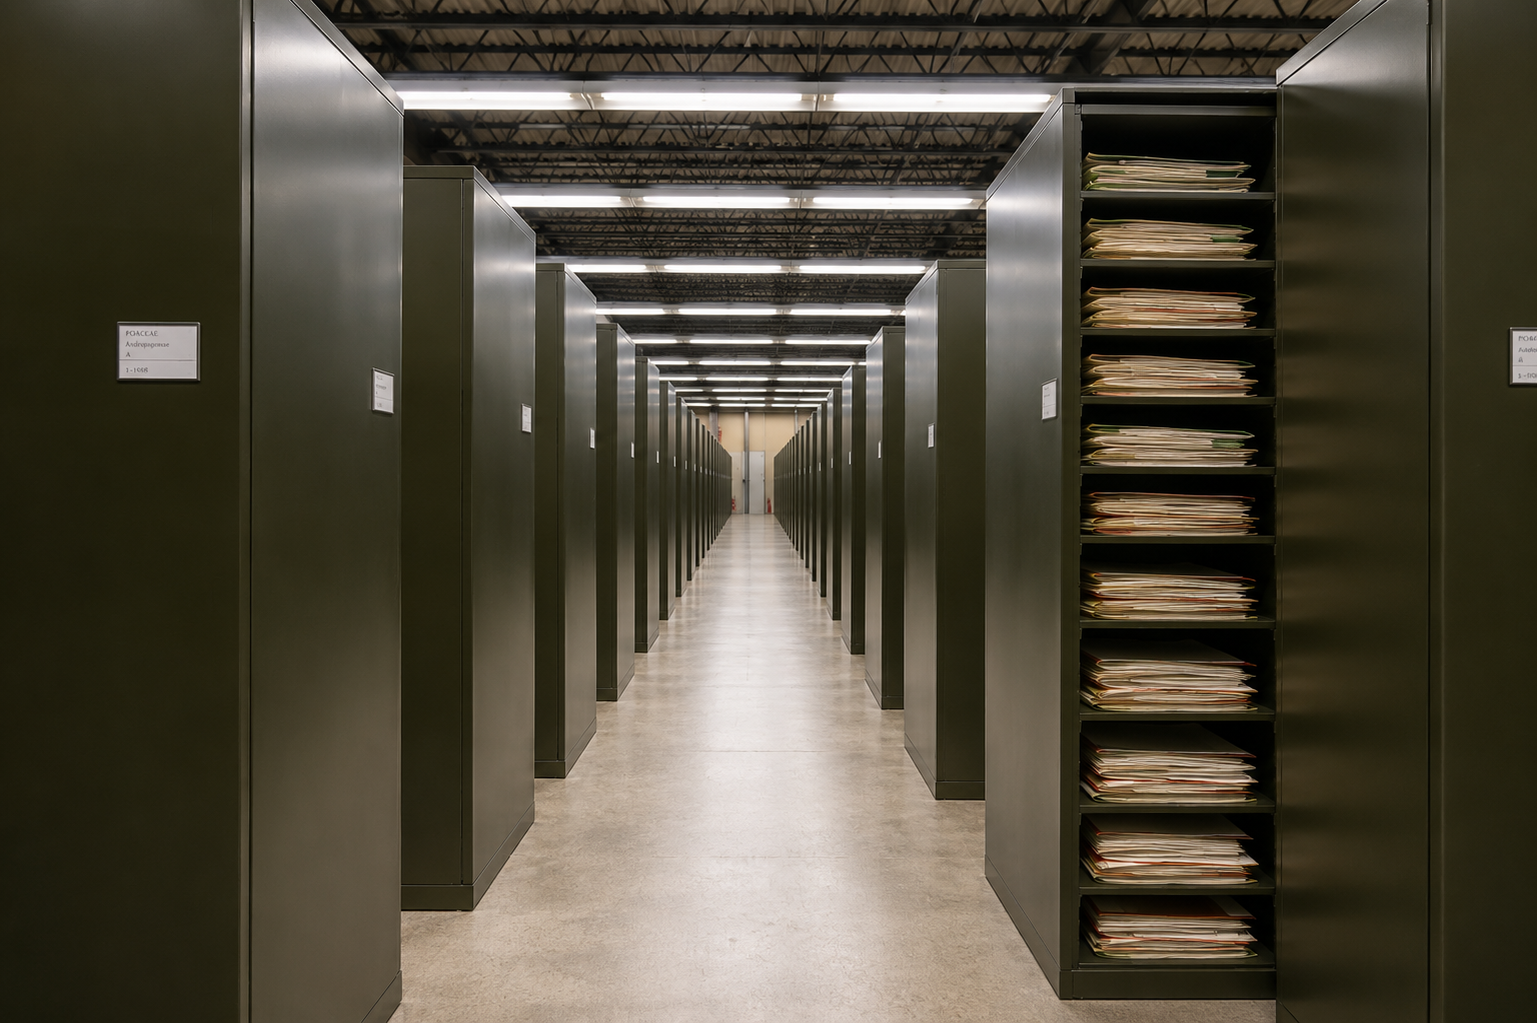
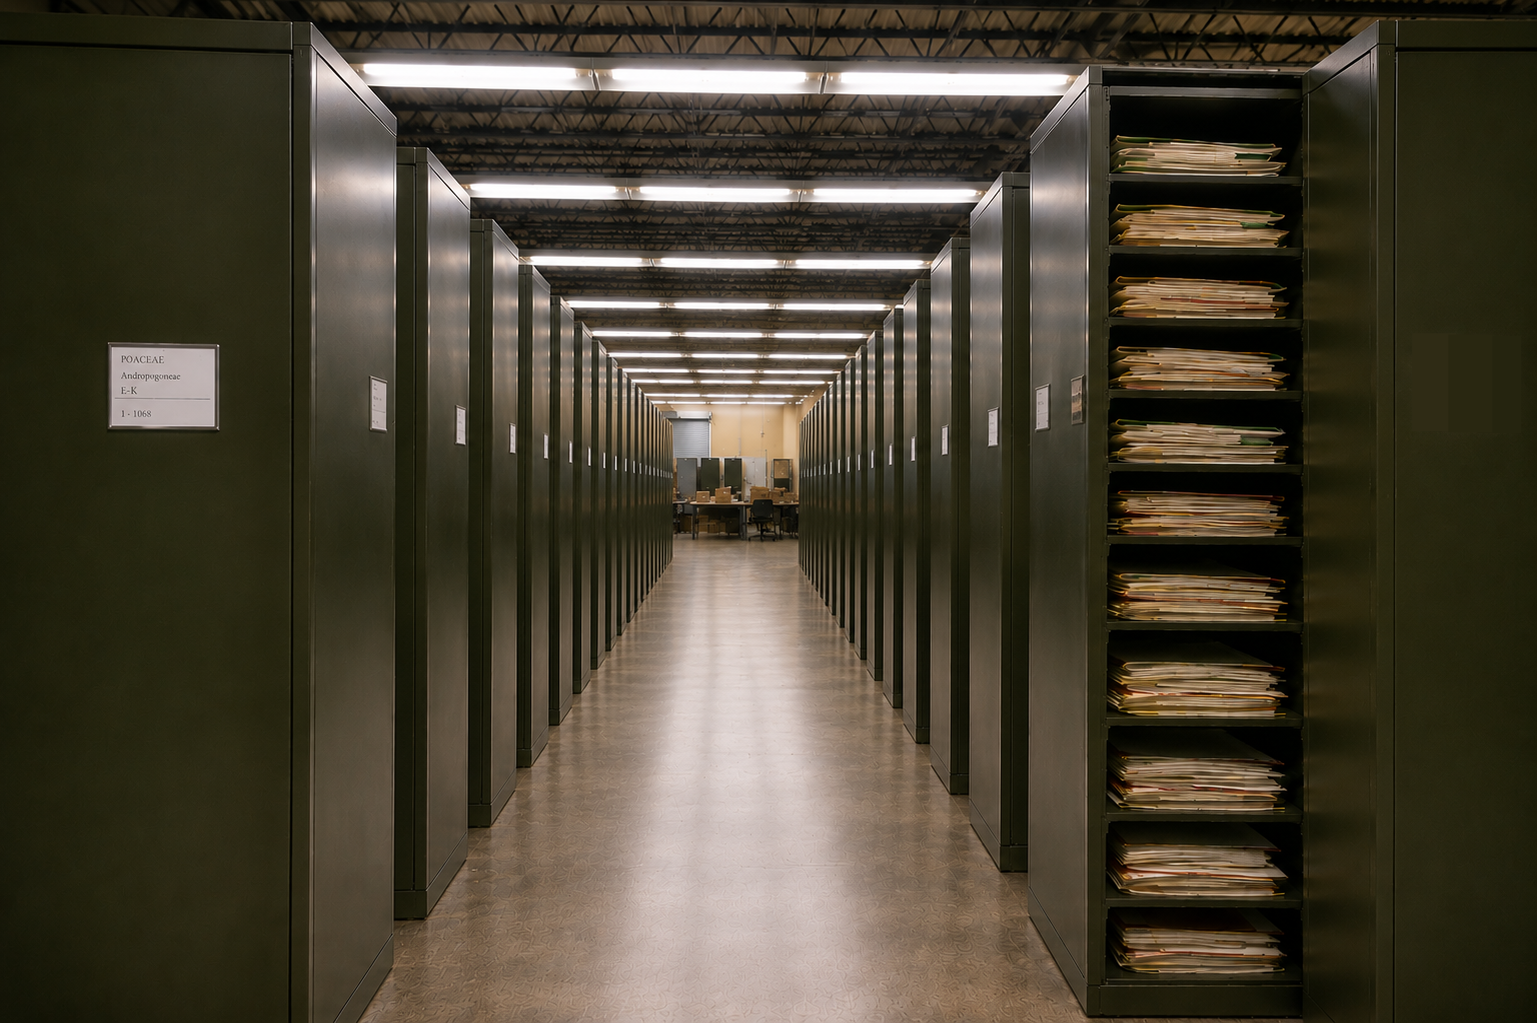
new pic herb

diff --git a/herbarium.html b/herbarium.html
@@ -22,7 +22,7 @@ canonical: "https://whiteplantsystematics.org/herbarium.html"
     class="hero-img"
     src="assets/img/sm-tracy-herbarium-hero.png"
     alt="Rows of herbarium cabinets at the S.M. Tracy Herbarium, with one open cabinet showing stacked specimen folders">
-  <figcaption>Specimens and cabinets at the S.M. Tracy Herbarium, Texas A&amp;M University.</figcaption>
+  <figcaption>Herbarium specimens in cabinets.</figcaption>
 </figure>
 
 <div class="stats-row">
